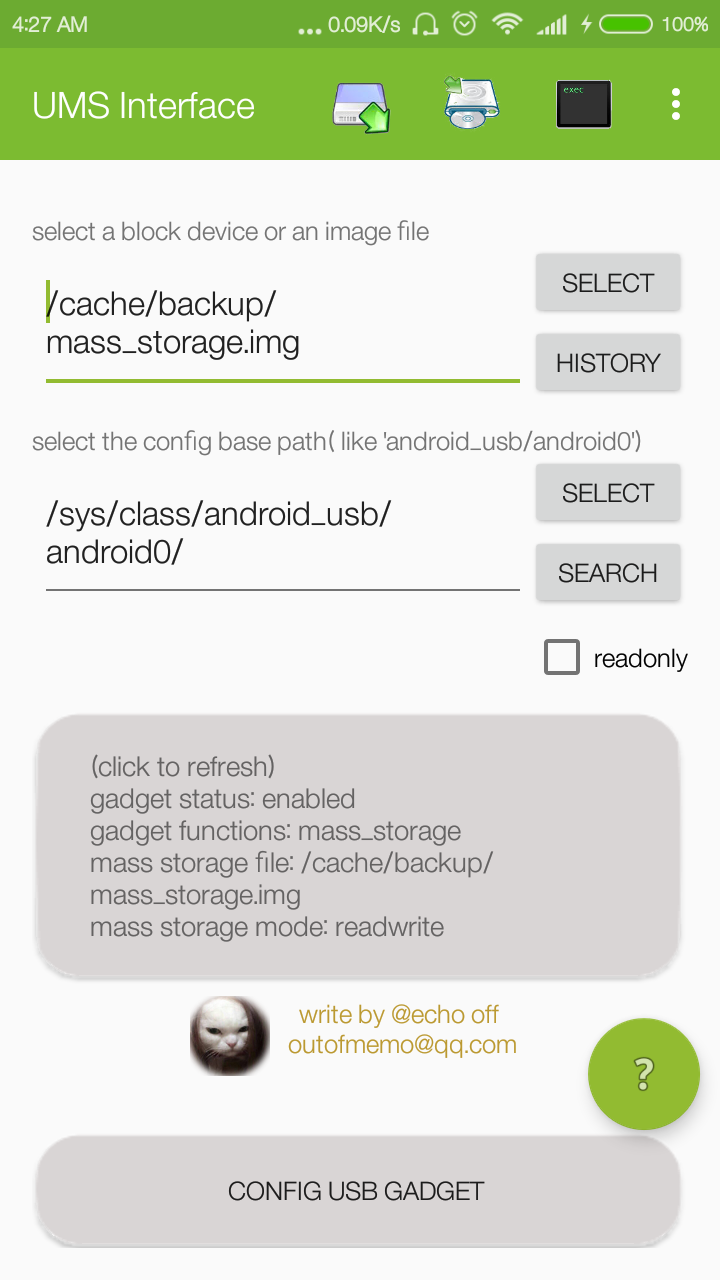
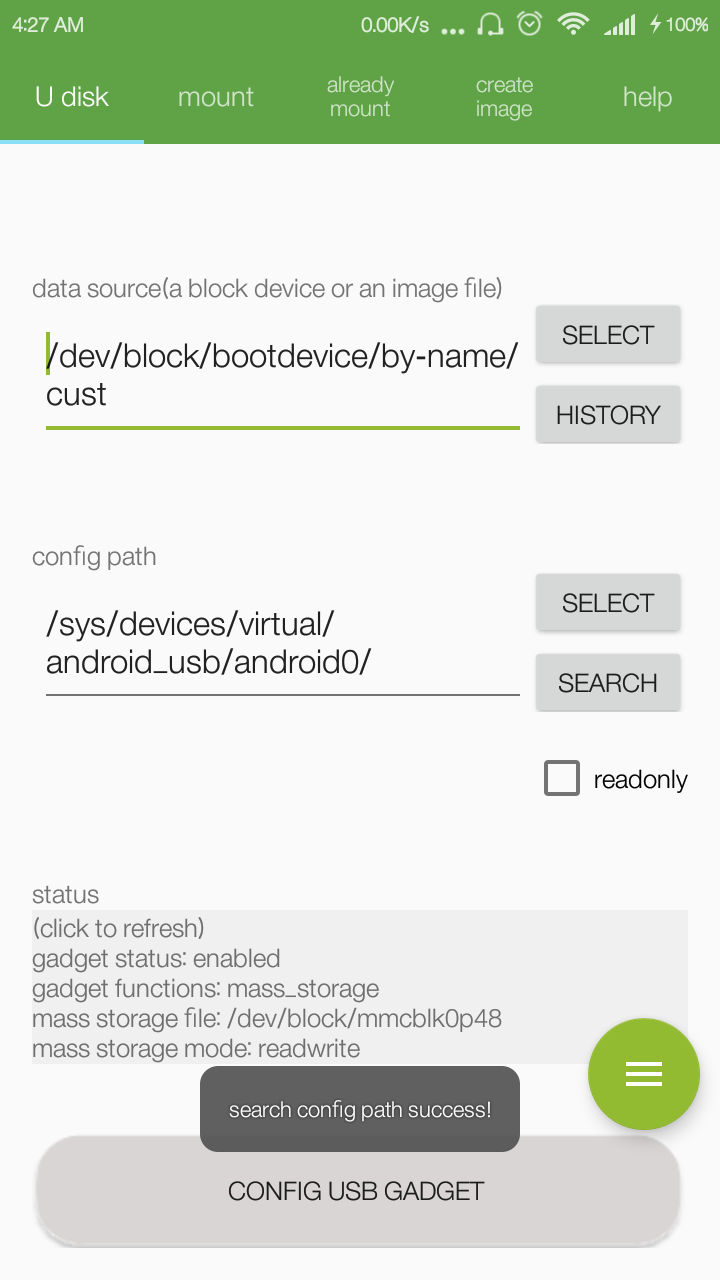
change sceen shot

diff --git a/app/src/main/java/com/sjj/echo/umsinterface/MountFragment.java b/app/src/main/java/com/sjj/echo/umsinterface/MountFragment.java
@@ -296,7 +296,7 @@ public class MountFragment extends Fragment {
         mountBtn.setOnClickListener(new View.OnClickListener() {
             @Override
             public void onClick(View v) {
-                checkLoop();
+                //checkLoop();
                 // mount operation
                 boolean _readonly = mReadonlyCheck.isChecked();
                 final boolean _loop = mLoopCheck.isChecked();
@@ -342,12 +342,12 @@ public class MountFragment extends Fragment {
             }
         });
 
-//        mLoopCheck.setOnClickListener(new View.OnClickListener() {
-//            @Override
-//            public void onClick(View v) {
-//                checkLoop();
-//            }
-//        });
+        mLoopCheck.setOnClickListener(new View.OnClickListener() {
+            @Override
+            public void onClick(View v) {
+                checkLoop();
+            }
+        });
 
         mDevEdit.setOnFocusChangeListener(new View.OnFocusChangeListener() {
             @Override
@@ -360,6 +360,7 @@ public class MountFragment extends Fragment {
                         mLoopCheck.setChecked(false);
                     else
                         mLoopCheck.setChecked(true);
+                    checkLoop();
                 }
             }
         });

diff --git a/README.md b/README.md
@@ -7,7 +7,7 @@
 
 ![](https://raw.githubusercontent.com/outofmemo/UMS-Interface/master/screenshots/p3.png)
 
-![](https://raw.githubusercontent.com/outofmemo/UMS-Interface/master/screenshots/p4.png)
+![](https://raw.githubusercontent.com/outofmemo/UMS-Interface/master/screenshots/p5.png)
 ##introduction
  * Root permission is needed,or ANR when launch , if you want to use mount function, busybox is needed too.
  * This program allows you to chose a block device or disk image as a 'disk',and communicate with PC through usb mass storage (just as usb disk do).
@@ -26,4 +26,4 @@
  * [boot disk image(PE),password: er8y](http://pan.baidu.com/s/1gfa9GbD)
  
 ##last version
- * 1.1.2 [download apk](https://raw.githubusercontent.com/outofmemo/UMS-Interface/master/update/app-release.apk)
+ * 1.2.0 [download apk](https://raw.githubusercontent.com/outofmemo/UMS-Interface/master/update/app-release.apk)
